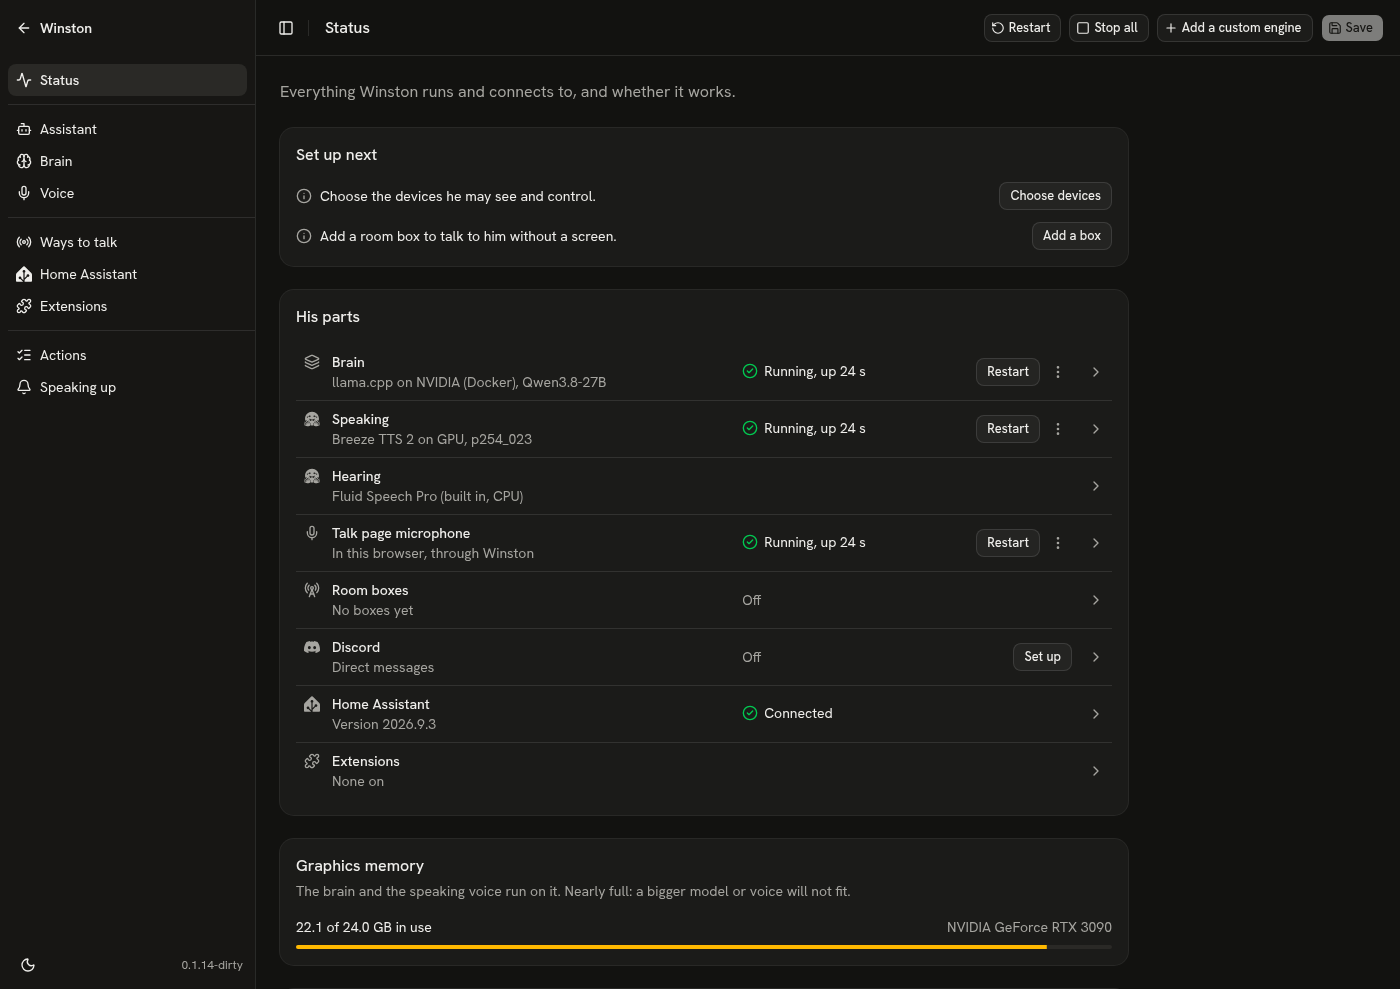
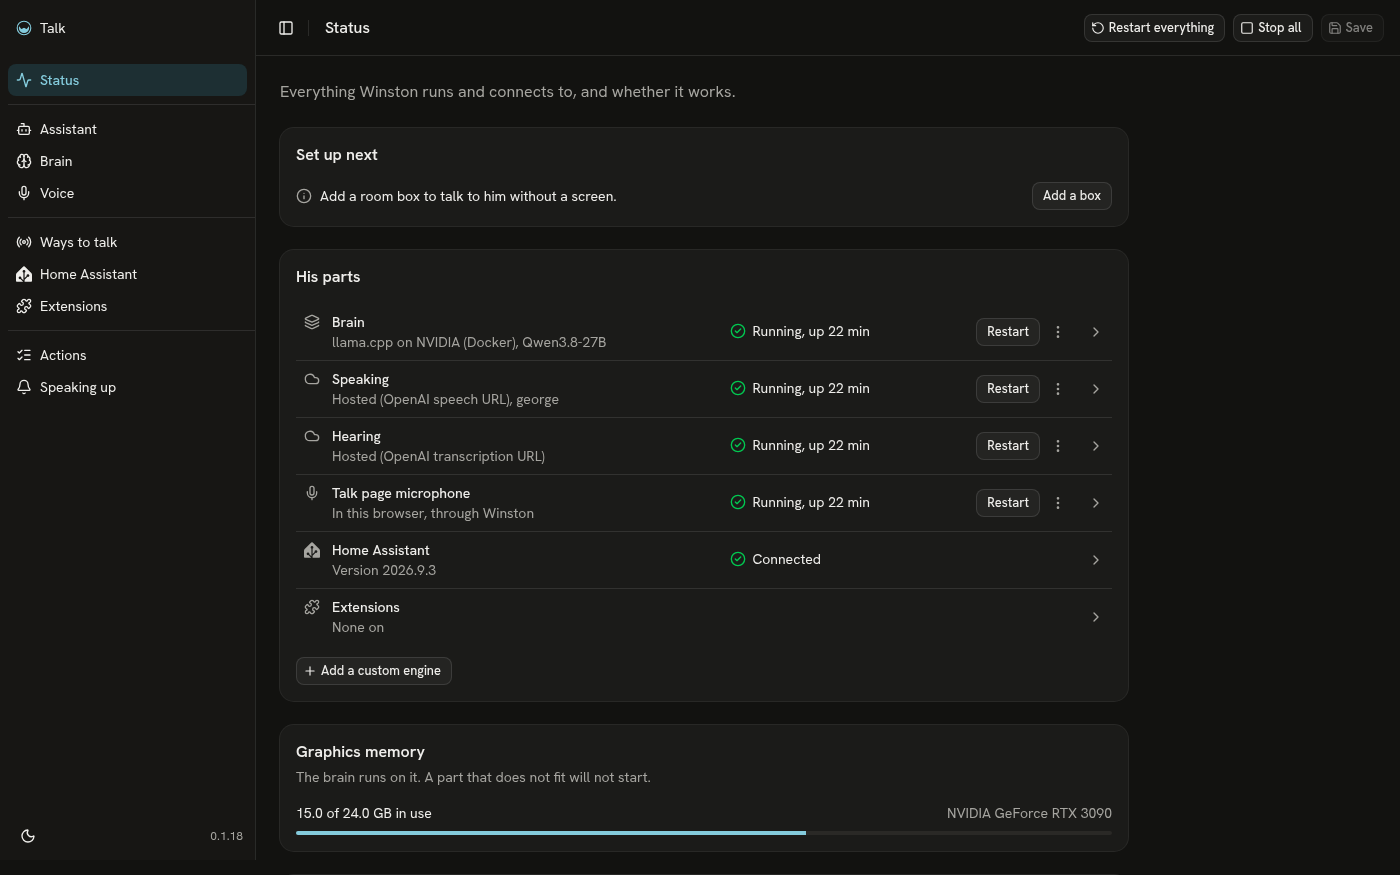
UI: Status lists only the parts that are on
Discord, room boxes, an engine switched off and a Home Assistant not set up
no longer show as Off rows in His parts; their pages turn them on, so the
row's Turn on goes too.

diff --git a/web/src/pages/status.tsx b/web/src/pages/status.tsx
@@ -29,7 +29,7 @@ import { useSettings, type SettingsState } from '@/hooks/use-settings'
 import { capitalize, joinNames, since } from '@/lib/format'
 import { memoryUse } from '@/lib/graphics-memory'
 import { matchPreset, SLOT_TITLES, type Kind } from '@/lib/presets'
-import { getIn, section, setIn } from '@/lib/schema'
+import { section } from '@/lib/schema'
 import { SETUP_STEPS } from '@/lib/setup'
 import { cn } from '@/lib/utils'
 
@@ -53,10 +53,9 @@ type Part = {
   process?: EngineStatus
   /** A state that is no process of Winston's (Home Assistant answering), with its own word. */
   state?: { state: EngineState; detail?: string; word?: string }
+  /** Switched off or not set up: no row, its page turns it on. */
   off?: boolean
-  /** The switch that turns it on: while off, its command is Turn on, in the draft. */
-  enable?: string[]
-  /** Off until it is set up there (Discord): its command is Set up. */
+  /** Set up but not connected yet (Home Assistant): its command is Set up. */
   setUp?: boolean
 }
 
@@ -157,7 +156,7 @@ export function PartStateLine({ part }: { part: EngineStatus }) {
 function PartState({ part }: { part: Part }) {
   const e = part.process
   const state: Part['state'] = e ? { state: e.state, detail: e.detail } : part.state
-  if (!state) return part.off ? <span className="text-muted-foreground">Off</span> : null
+  if (!state) return null
   return (
     <div className="flex flex-col gap-0.5">
       <span className="relative z-10 whitespace-nowrap">
@@ -262,7 +261,6 @@ export default function StatusPage() {
       to,
       process: proc(kind),
       off: engine?.enabled === false,
-      enable: ['engines', kind, 'enabled'],
     }
   }
   // The model by its own name, without its maker, file format or quantization ("Qwen3.8-27B" for
@@ -276,7 +274,7 @@ export default function StatusPage() {
   const on = (extensions.data ?? []).filter((x) => x.enabled)
   const needing = on.filter(needsYou)
 
-  const parts: Part[] = [
+  const all: Part[] = [
     slot('llm', '/brain', model),
     slot('tts', '/voice', voice),
     slot('stt', '/voice'),
@@ -288,7 +286,6 @@ export default function StatusPage() {
       to: '/ways-to-talk',
       process: proc('voice'),
       off: saved.channels?.voice?.enabled === false,
-      enable: ['channels', 'voice', 'enabled'],
     },
     {
       key: 'satellite',
@@ -298,8 +295,6 @@ export default function StatusPage() {
       to: '/ways-to-talk',
       process: proc('satellite'),
       off: !saved.channels?.satellite?.enabled,
-      // With no box, Set up next's Add a box covers it.
-      enable: boxes ? ['channels', 'satellite', 'enabled'] : undefined,
     },
     {
       key: 'discord',
@@ -309,21 +304,20 @@ export default function StatusPage() {
       to: '/ways-to-talk',
       process: proc('discord'),
       off: !saved.channels?.discord?.enabled,
-      setUp: !saved.channels?.discord?.enabled,
     },
     {
       key: 'home_assistant',
       icon: 'homeassistant',
       role: 'Home Assistant',
-      runs: !haSetUp ? 'Not set up' : haState === 'new' ? 'Not connected yet' : exposure.data?.version ? `Version ${exposure.data.version}` : '',
+      runs: haState === 'new' ? 'Not connected yet' : exposure.data?.version ? `Version ${exposure.data.version}` : '',
       to: '/home-assistant',
       state:
         haState === 'down' || haState === 'ok'
           ? { state: haDown ? 'error' : 'healthy', detail: haDetail, word: haDown ? "Can't reach it" : 'Connected' }
           : undefined,
-      off: haSetUp && !haOn,
+      // Not set up: Set up next's Connect Home Assistant covers it.
+      off: !haSetUp || !haOn,
       setUp: haState === 'new',
-      enable: haSetUp ? ['providers', 'home_assistant', 'enabled'] : undefined,
     },
     {
       key: 'extensions',
@@ -333,6 +327,7 @@ export default function StatusPage() {
       to: '/extensions',
     },
   ]
+  const parts = all.filter((p) => !p.off)
 
   // Needs you: what is wrong now, each with what to do about it. What waits for a restart is in the header
   // and in its part's state.
@@ -453,18 +448,12 @@ export default function StatusPage() {
   ]
   const partActions = (p: Part) => {
     const e = p.process
-    // Gone once the draft turns it on; the save bar takes it from there.
-    const turnOn = !e && p.off && p.enable && getIn(page.value, p.enable) !== true ? p.enable : undefined
-    if (!e && !p.setUp && !turnOn) return null
+    if (!e && !p.setUp) return null
     return (
       <span className="inline-flex items-center gap-1 max-sm:pl-7">
         {e ? (
           <Button variant="outline" size="sm" onClick={() => (isRunning(e) ? void commands.restart(e) : commands.start(e))}>
             {isRunning(e) ? 'Restart' : 'Start'}
-          </Button>
-        ) : turnOn ? (
-          <Button variant="outline" size="sm" onClick={() => page.update((c) => setIn(c, turnOn, true))}>
-            Turn on
           </Button>
         ) : p.setUp ? (
           <Button variant="outline" size="sm" asChild>

diff --git a/docs/web-ui.md b/docs/web-ui.md
@@ -136,7 +136,8 @@ From the top:
   new version. The sidebar's footer says "Version 0.2.0 is out" on every Settings page. See
   [updating](setup.md#updating).
 - **His parts**: Brain, Speaking, Hearing, Talk page microphone, Room boxes, Discord, Home Assistant
-  and Extensions. Each row is described below the list.
+  and Extensions, each only while it is on (Home Assistant once it is set up): its page turns it on.
+  Each row is described below the list.
 - **Graphics memory**: "23.4 of 24.0 GB in use" and the card's name, then which of his parts run on
   the card, from the saved picks ("The brain and the speaking voice run on it."): a voice or hearing on
   the processor is not named. A part that does not fit will not start; a brain on Ollama runs partly on
@@ -157,8 +158,8 @@ A row in His parts says:
 - its state in words with how long ("Running, up 15 min", "Starting, 40 s of about 2 min"), and the
   reason under it when it is not running.
 
-Its command is Restart while it runs, Start while it does not, Turn on for one switched off (a draft
-change, for Save) and Set up for Discord. Its menu has Stop and Log, and the row opens the page that
+Its command is Restart while it runs, Start while it does not, and Set up for a Home Assistant not
+connected yet. Its menu has Stop and Log, and the row opens the page that
 sets it up. Stop and Restart say what stops and for how long ("Stop the brain? He cannot answer
 anywhere until it starts again, about 24 s.").
 
